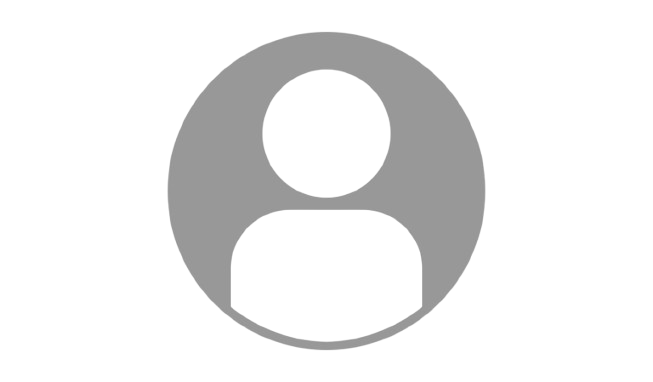
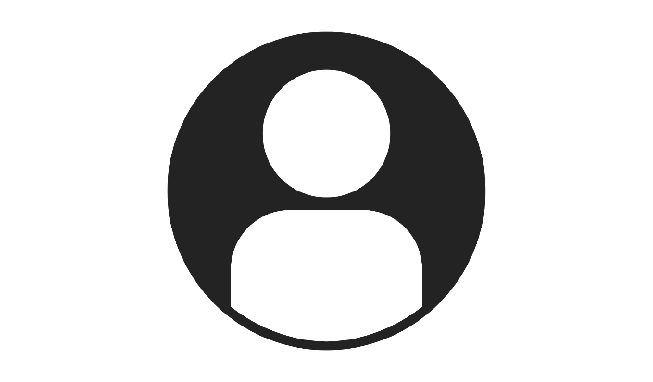
fixed the color issue and made it more attractive

Changed region(s): [[0.245, 0.0576, 0.7657, 0.9215]]

diff --git a/Task-05/src/pages/playlist.jsx b/Task-05/src/pages/playlist.jsx
@@ -5,25 +5,27 @@ function Playlist() {
     return (
         <>
             <Navbar />
-            <div className="playlist-create-btn">
-                <h2>Your Playlists</h2>
-                <button>Create +</button>
-            </div>
-            <PlaylistCards />
-            <PlaylistCards />
-            <PlaylistCards />
-            <PlaylistCards />
-            <PlaylistCards />
-            <div className="playlist-recom">
-                <h2>Recommended Playlists</h2>
-            </div>
-            <PlaylistCards />
-            <PlaylistCards />
-            <PlaylistCards />
-            <PlaylistCards />
-            <PlaylistCards />
+            <div className="playlist-ctnr">
+                <div className="playlist-create-btn">
+                    <h2>Your Playlists</h2>
+                    <button>Create +</button>
+                </div>
+                <div className="playlist-data">
+                    <PlaylistCards />
+                    <PlaylistCards />
+                    <PlaylistCards />
 
-            <DynamicIsland />
+                </div>
+                <div className="playlist-recom">
+                    <h2>Recommended Playlists</h2>
+                </div>
+                <div className="playlist-data">
+                    <PlaylistCards />
+                    <PlaylistCards />
+                    <PlaylistCards />
+                </div>
+                <DynamicIsland />
+            </div>
         </>
     )
 }

diff --git a/Task-05/src/styles/playlistcard.css b/Task-05/src/styles/playlistcard.css
@@ -9,8 +9,8 @@
     min-width: 150px;
     padding: 15px;
     box-shadow: 0 4px 8px rgba(0, 0, 0, 0.1);
-    border: 2px solid #57839d;
-    background-color: #6ca5c6;
+    border: 2px solid #9aa3b0;
+    background-color: #BCC7D6;
     cursor: pointer;
     transition: transform 0.3s;
 }
@@ -29,7 +29,7 @@
 
 .playlist-info h2 {
     text-align: center;
-    color: #333;
+    color: rgb(32, 35, 39);
     font-size: clamp(14px, 3vw, 20px);
     margin-top: 10px;
     font-family: monospace;
@@ -45,11 +45,17 @@
     padding: 0 10px;
 }
 
+.playlist-data {
+    display: flex;
+    justify-content: center;
+    align-items: center;
+}
+
 .playlist-create-btn h2 {
     flex: 1;
     text-decoration: underline;
     font-size: clamp(20px, 5vw, 30px);
-    color: rgb(76, 130, 163);
+    color: #575c64;
     margin: 0;
 }
 
@@ -58,16 +64,16 @@
     font-family: monospace;
     padding: 12px 20px;
     box-shadow: 0 4px 8px rgba(0, 0, 0, 0.1);
-    background-color: #6ca5c6;
+    background-color: #BCC7D6;
     font-size: clamp(14px, 3vw, 20px);
     border-radius: 30px;
-    border: 2px solid #57839d;
+    border: 2px solid #6c757d;
     cursor: pointer;
     transition: background-color 0.3s;
 }
 
 .playlist-create-btn button:hover {
-    background-color: #5a9ab8;
+    background-color: #53595f;
 }
 
 .playlist-recom {
@@ -78,7 +84,7 @@
 .playlist-recom h2 {
 
     text-decoration: underline;
-    color: rgb(76, 130, 163);
+    color: #3E4A5B;
     margin: 0;
 }
 

diff --git a/Task-05/src/styles/dynamicIsland.css b/Task-05/src/styles/dynamicIsland.css
@@ -5,14 +5,14 @@
     transform: translateX(-50%);
     width: calc(100% - 30px);
     max-width: 700px;
-    background: #6ea9ca;
+    background: #C9D3DD;
     border-radius: 40px;
     display: flex;
     align-items: center;
     gap: 10px;
     padding: 8px 15px;
     font-family: monospace;
-    border: #447794 4px solid;
+    border: #8996a1 4px solid;
     z-index: 1000;
 }
 
@@ -32,6 +32,7 @@
 .song-playing-dta h3 {
     font-size: clamp(12px, 3vw, 16px);
     white-space: nowrap;
+    color: #73797e;
     overflow: hidden;
     text-overflow: ellipsis;
     margin: 0;
@@ -44,20 +45,19 @@
 }
 
 .controls button {
-    background: #b4d6ea;
-    color: #568dad;
-    border: none;
+    background: #9ca4ac;
+    color: #C9D3DD;
+    border: #C9D3DD 4px solid;
     padding: clamp(6px, 2vw, 10px) clamp(8px, 2.5vw, 15px);
     border-radius: 20px;
     font-weight: bold;
     cursor: pointer;
     font-size: clamp(12px, 3vw, 16px);
-    transition: background-color 0.3s;
 }
 
 .controls button:hover {
-    background: #76b1d4;
-    border: #b4d6ea 1px dotted;
+    background: #555c62;
+    border: #5a6269 4px solid;
 }
 
 @media (max-width: 768px) {

diff --git a/Task-05/src/styles/search.css b/Task-05/src/styles/search.css
@@ -14,11 +14,11 @@
 
 .search-box input {
     width: 100%;
-    background-color: #7db6d6;
+    background-color: #C9D3DD;
     text-align: center;
     font-family: monospace;
     height: auto;
-    border: 4px solid #67a7cd;
+    border: 4px solid #8f98a0;
     padding: 12px 20px;
     border-radius: 50px;
     font-size: clamp(14px, 3vw, 18px);
@@ -46,13 +46,13 @@
 
 .song-search h2 {
     font-size: clamp(20px, 5vw, 28px);
-    color: #57839d;
+    color: rgb(86, 97, 104);
     margin-bottom: 15px;
 }
 
 h2 {
     font-size: clamp(20px, 5vw, 28px);
-    color: #57839d;
+    color: #5c6670;
     text-decoration: underline;
     font-family: monospace;
     margin-bottom: 15px;

diff --git a/Task-05/src/styles/navbar.css b/Task-05/src/styles/navbar.css
@@ -7,8 +7,8 @@
     flex-wrap: wrap;
     align-items: center;
     justify-content: space-between;
-    border: #6ca5c6 4px solid;
-    background-color: #72afd2;
+    border: #8d95a1 4px solid;
+    background-color: #BCC7D6;
     border-radius: 30px;
     padding: 5px 15px;
     gap: 10px;
@@ -36,12 +36,12 @@
     padding: 10px 15px;
     border-radius: 30px;
     border: none;
-    background-color: #72afd2;
+    background-color: #BCC7D6;
     cursor: pointer;
 }
 
 .navbar-topics button:hover {
-    background-color: #6ca5c6;
+    background-color: #8c94a0;
 }
 
 .navbar-user {

diff --git a/Task-05/src/styles/profile.css b/Task-05/src/styles/profile.css
@@ -17,14 +17,14 @@
 }
 
 .profile-info h2 {
-    color: #57839d;
+    color: #80868d;
     font-size: clamp(24px, 6vw, 40px);
     margin: 15px 0 5px;
     text-align: center;
 }
 
 .profile-info h3 {
-    color: #57839d;
+    color: #868d94;
     font-size: clamp(16px, 4vw, 30px);
     text-align: center;
 }
@@ -40,7 +40,7 @@
 }
 
 .profile-flwn h2 {
-    color: #57839d;
+    color: #878f97;
     font-size: clamp(20px, 5vw, 36px);
     margin-bottom: 15px;
     text-decoration: underline;

diff --git a/Task-05/src/styles/folwnartist.css b/Task-05/src/styles/folwnartist.css
@@ -4,7 +4,8 @@
     flex-direction: column;
     align-items: center;
     border-radius: 30px;
-    background-color: #6ca5c6;
+    background-color: #C9D3DD;
+    border: #787f85 3px solid;
     padding: 15px;
     transition: transform 0.3s;
 }
@@ -24,7 +25,7 @@
     font-size: clamp(12px, 3vw, 20px);
     text-align: center;
     font-family: monospace;
-    color: #466f87;
+    color: #787f85;
     margin-top: 10px;
 }
 

diff --git a/Task-05/src/styles/fetchartist.css b/Task-05/src/styles/fetchartist.css
@@ -5,8 +5,8 @@
     max-width: 600px;
     padding: 10px 15px;
     border-radius: 40px;
-    background-color: #7db6d6;
-    border: 3px solid #5a89a4;
+    background-color: #C9D3DD;
+    border: 3px solid #C9D3DD;
     gap: 12px;
     transition: transform 0.3s;
 }

diff --git a/Task-05/src/styles/searchmusic.css b/Task-05/src/styles/searchmusic.css
@@ -5,8 +5,8 @@
     max-width: 600px;
     padding: 10px 15px;
     border-radius: 40px;
-    background-color: #7db6d6;
-    border: 3px solid #5a89a4;
+    background-color: #C9D3DD;
+    border: 5px solid #8c959e;
     gap: 15px;
 }
 

diff --git a/Task-05/src/index.css b/Task-05/src/index.css
@@ -1,5 +1,5 @@
 :root {
-  background-color: #98C1D9;
+  background-color: #A7B3C2;
 }
 
 * {
